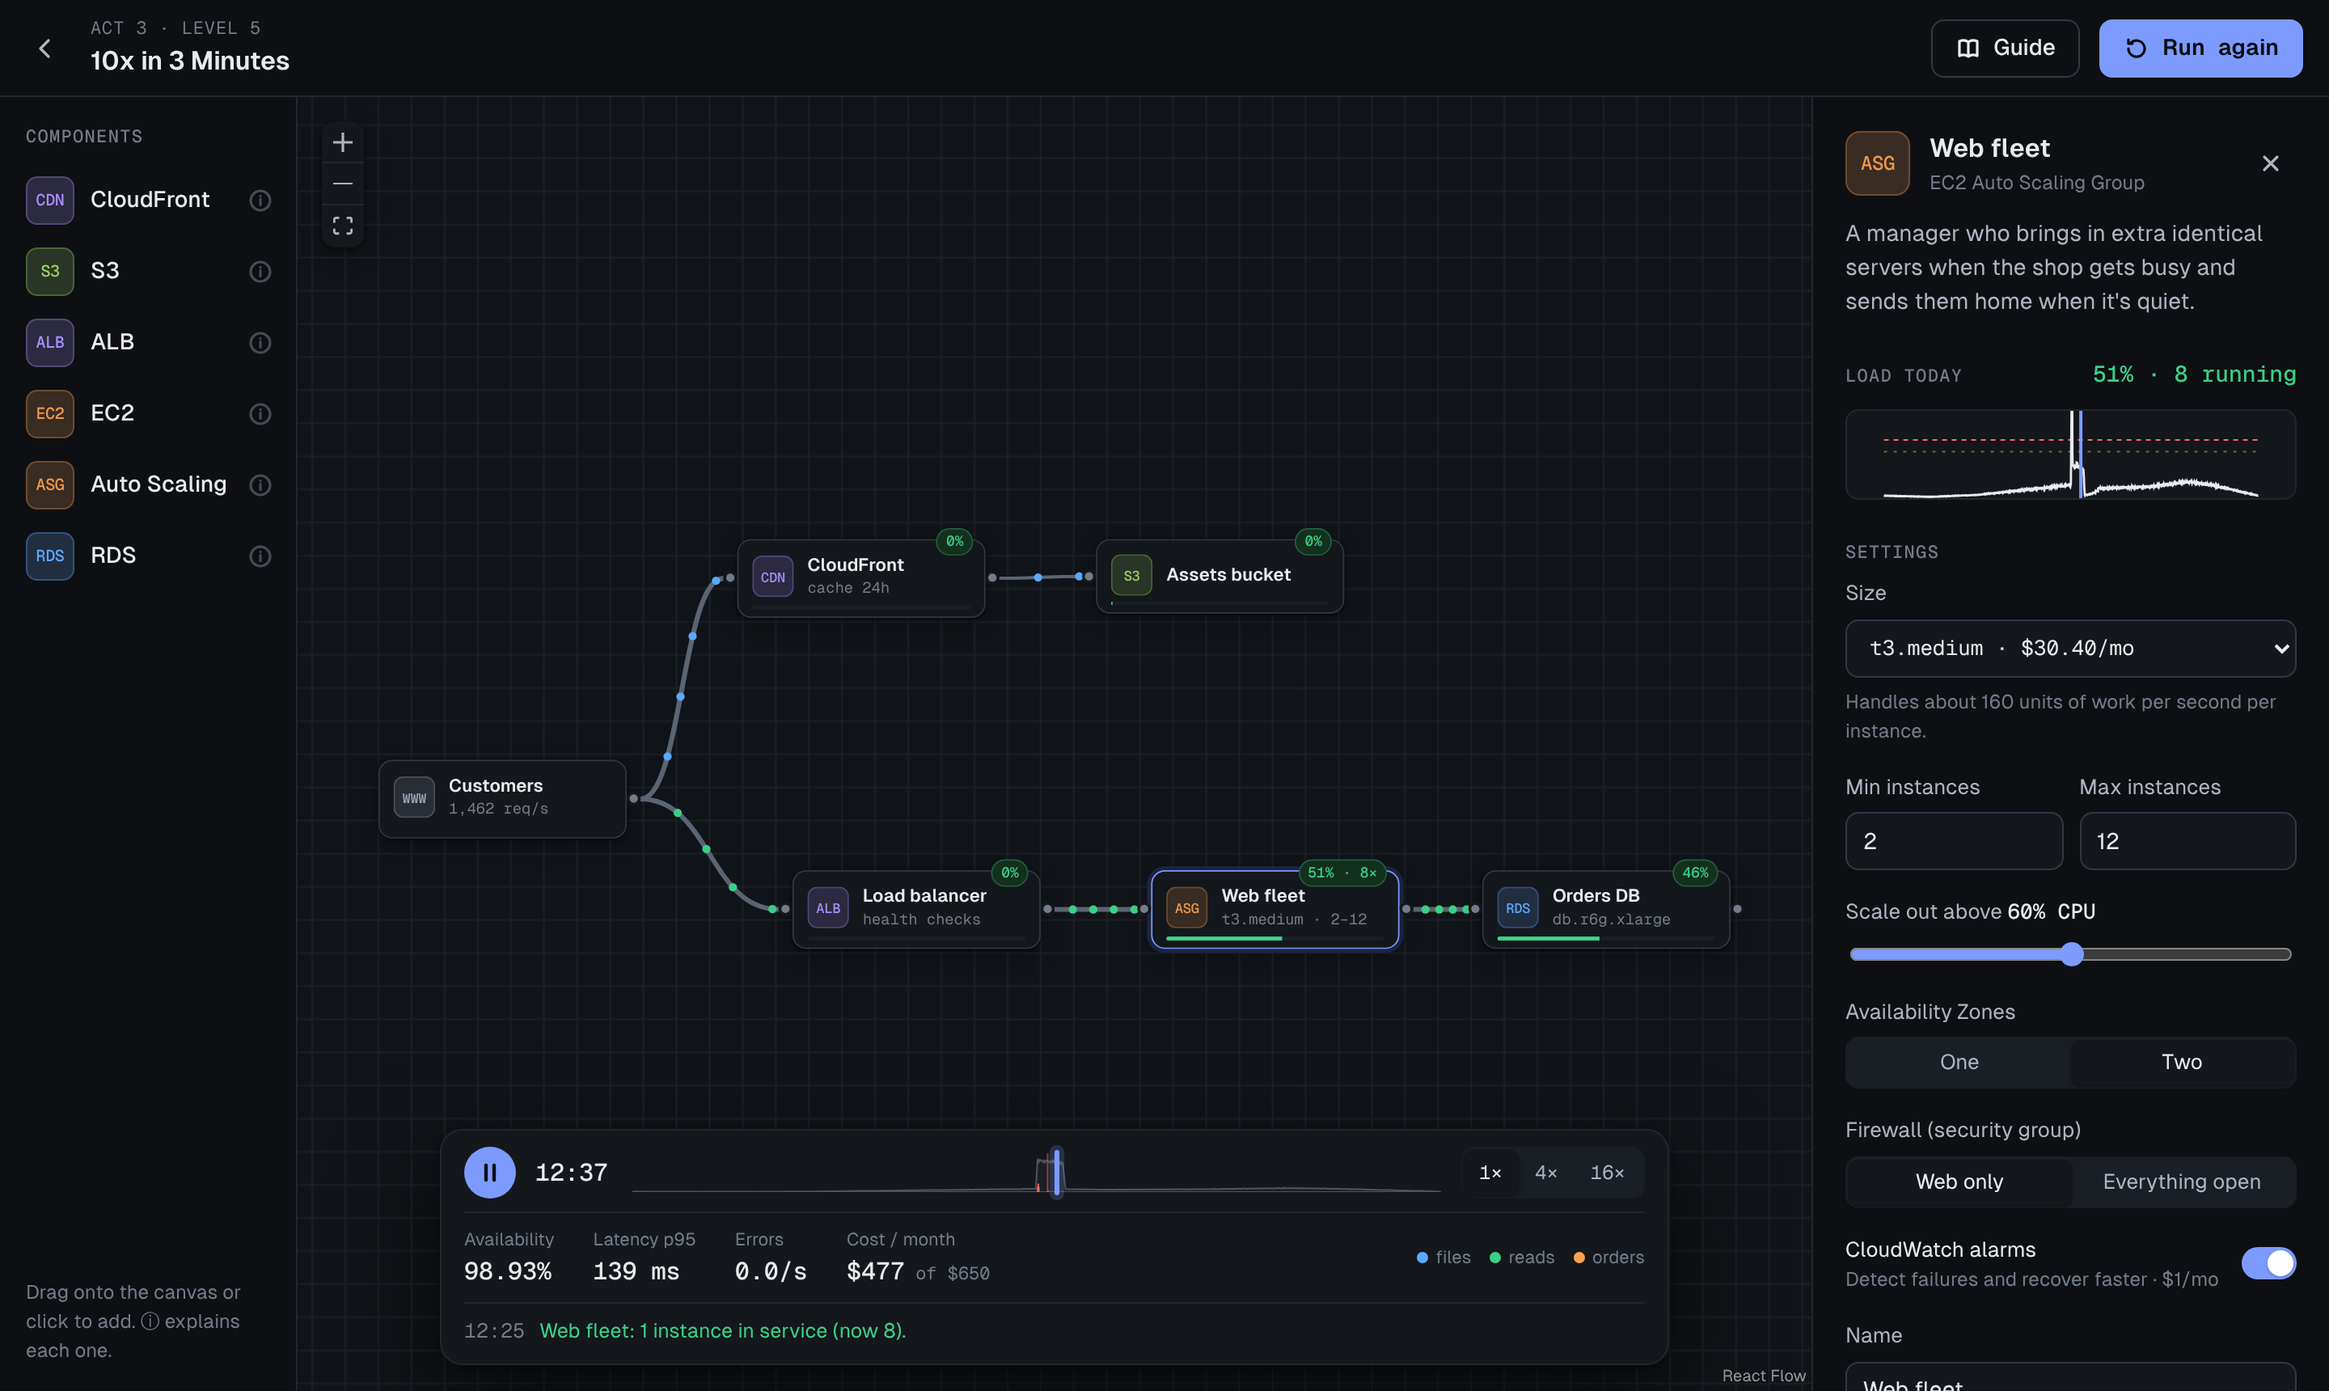
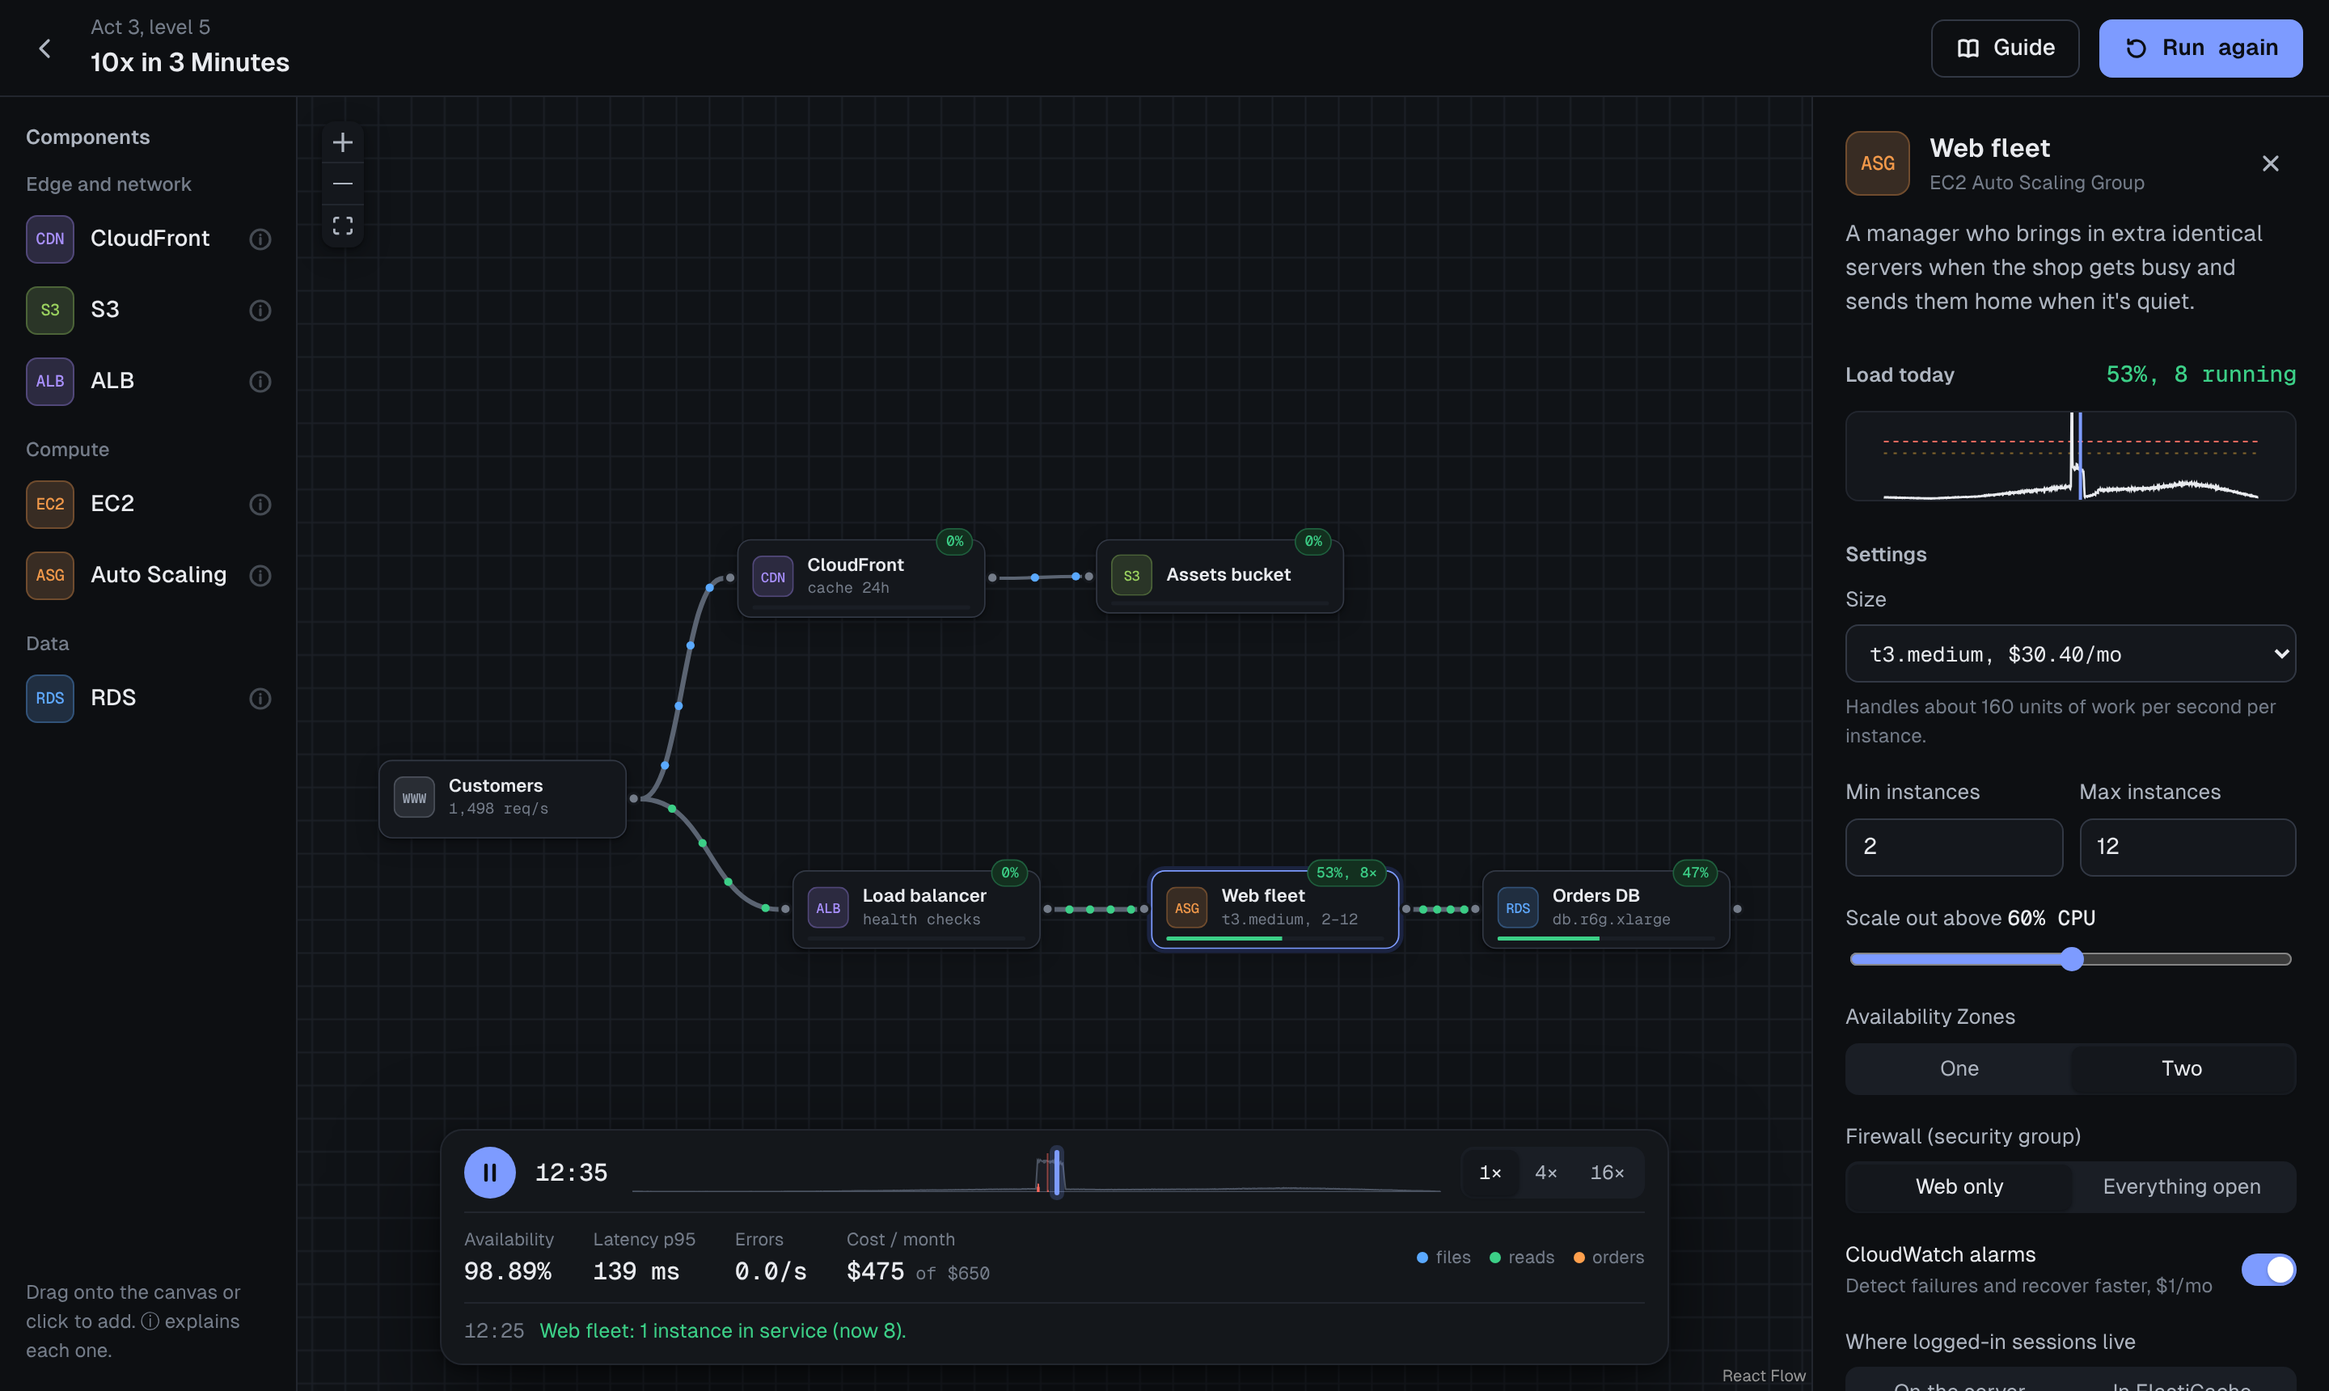
docs: describe Acts 4-7, the service guide and walkthroughs
Claude-Session: https://claude.ai/code/session_01Csq6iCoHs1hjybDH51s5cd

diff --git a/README.md b/README.md
@@ -25,28 +25,39 @@ ways:
 
 | Layer                         | What it demonstrates                                                                                                                                                                                                                                        |
 | ----------------------------- | ----------------------------------------------------------------------------------------------------------------------------------------------------------------------------------------------------------------------------------------------------------- |
-| **The game's content**        | System design knowledge: scaling, high availability, CDNs, right-sizing, data durability, security groups, health checks, alarms and cost trade-offs                                                                                                        |
-| **The game's code**           | A deterministic simulation engine with queueing, autoscaling and failure models; a graph editor; data-driven content validated by schemas; 98 automated tests                                                                                               |
+| **The game's content**        | System design knowledge: scaling, high availability, caching, replication, serverless, queues and events, disaster recovery, security and cost trade-offs                                                                                                   |
+| **The game's code**           | A deterministic simulation engine with queueing, autoscaling and failure models; a graph editor; data-driven content validated by schemas; 181 automated tests                                                                                              |
 | **The game's infrastructure** | Production-ready AWS infrastructure as code: serverless Terraform for dev and prod, GitHub Actions with OIDC (no long-lived keys), least-privilege IAM, alarms, dashboards and a budget alert. Validated in CI, not deployed: the live demo runs on Netlify |
 
 ## Play
 
-The Phase 1 prototype has the first three acts of the campaign (15 levels) and a sandbox.
+The campaign has seven acts (35 levels) that follow NimbusCart from ten users to two million, plus a sandbox.
 
-| Act                   | Story                                   | Levels                                                                                                                                     |
-| --------------------- | --------------------------------------- | ------------------------------------------------------------------------------------------------------------------------------------------ |
-| **1. Hello Cloud**    | The founder's weekend project, 10 users | One EC2 server · Elastic IP and security groups · Images in S3 · CloudFront with a private bucket · **Boss: launch day on $20**            |
-| **2. First Database** | First paying customers, 1k users        | Database on the server · Move to RDS (before a crash) · Right-sizing · Backups and private databases · **Boss: don't lose a single order** |
-| **3. Growing Pains**  | Featured on the app store, 50k users    | ALB and two servers · Auto Scaling on CPU · Two Availability Zones · Health checks and alarms · **Boss: 10x in 3 minutes**                 |
+| Act                        | Story                                       | Levels                                                                                                                                               |
+| -------------------------- | ------------------------------------------- | ---------------------------------------------------------------------------------------------------------------------------------------------------- |
+| **1. Hello Cloud**         | The founder's weekend project, 10 users     | One EC2 server; Elastic IP and security groups; images in S3; CloudFront with a private bucket; **boss: launch day on $20**                          |
+| **2. First Database**      | First paying customers, 1k users            | Database on the server; move to RDS before a crash; right-sizing; backups and private databases; **boss: don't lose a single order**                 |
+| **3. Growing Pains**       | Featured on the app store, 50k users        | ALB and two servers; Auto Scaling on CPU; two Availability Zones; health checks and alarms; **boss: 10x in 3 minutes**                               |
+| **4. Database Bottleneck** | Reads overwhelm the database, 200k users    | Read replicas; cache-aside with ElastiCache; TTL and stale data; replication lag; **boss: Black Friday with a cold cache**                           |
+| **5. Always On**           | A 99.9% SLA, 500k users                     | Multi-AZ failover; stateless servers and sessions; backups vs Multi-AZ; surviving a lost zone; **boss: a zone goes dark at peak**                    |
+| **6. Go Serverless**       | A mobile API, 1M users                      | API Gateway, Lambda and DynamoDB; Lambda memory and cold starts; partition keys; the RDS Proxy connection storm; **boss: the viral coupon**          |
+| **7. Decouple Everything** | Order processing keeps timing out, 2M users | Queue the payments with SQS; fan-out with SNS; poison messages and dead-letter queues; EventBridge retries; **boss: the payment provider goes down** |
 
-Services in Phase 1: **EC2, Auto Scaling Groups, ALB, CloudFront, S3, RDS, RDS read replicas, ElastiCache**
-(replicas and caching are available in the sandbox and unlock in the campaign in Act 4).
-Chaos events: **traffic spikes** and **instance crashes**.
+**17 services:** EC2, Auto Scaling, ALB, CloudFront, S3, RDS, read replicas, ElastiCache, API Gateway, Lambda,
+DynamoDB, RDS Proxy, SQS, SNS, EventBridge, plus your customers and a third-party payment provider.
 
-**No AWS experience needed.** A built-in service guide explains the basics (requests, load, latency,
-availability, Availability Zones, cost) and gives every component an everyday analogy, how it behaves in the
-game, and when to use it or avoid it. New components get a short introduction the first time a level unlocks
-them, and the first level opens with a three-step "how to play".
+**9 kinds of chaos:** traffic spikes, instance crashes, Availability Zone outages, database failures, payment
+provider outages, cache flushes, viral hot keys, a dropped table, and poison messages.
+
+**No AWS experience needed.**
+
+- **Service guide.** Searchable, available from every screen. Each service has an everyday analogy, a
+  beginner overview, how it behaves in the game, when to use and avoid it, words to know, a worked NimbusCart
+  example, common mistakes, what it pairs with, and its sizes and prices. 24 concept pages cover the ideas behind
+  them, from latency and availability to RPO and RTO, hot partitions and idempotency.
+- **Level intros.** The first time a level unlocks a service, a short card introduces it.
+- **Walkthroughs.** Every level has a step-by-step answer and an explanation of why it works. After two failed
+  runs the game offers it, and the answer can be loaded straight onto the canvas.
 
 ![Report card for the boss level: availability of 99.48% just misses the 99.5% target. The card shows pillar scores, a cost breakdown, the fleet as the bottleneck at 220% load, hints and a post-mortem timeline](docs/screenshots/report.png)
 
@@ -149,6 +160,7 @@ always gives the same result.
    (CloudFront for images, the load balancer for pages). CloudFront answers cache hits at the edge, based on its
    TTL. The ALB splits by healthy capacity. Servers send reads to a cache, replicas or the primary, and writes to
    the primary. A server with no database keeps one on its own disk, which costs CPU, and is lost if it crashes.
+   A request can make several calls in order: charge the card, save the order, publish an event.
 4. **Capacity and queueing.** Every request costs a node some work units. Latency is nearly flat below 80% load,
    then rises sharply (an M/M/c-style knee); above 100%, the excess is dropped.
 5. **Latency as distributions, not averages.** A backward pass combines each node's latency with its children's
@@ -157,15 +169,25 @@ always gives the same result.
 6. **Autoscaling and failure.** Auto Scaling Groups track a target utilisation, with a 3-minute warm-up and a
    scale-in cooldown. Crashes pick a running instance with the seeded RNG. Health checks decide whether the ALB
    keeps routing to a dead target; alarms decide how fast a lone server recovers.
-7. **Cost.** Hourly prices per component (per running instance for ASGs) plus per-request charges, projected to
-   a monthly figure live during the run.
-8. **Scoring.** Objectives (availability, p95, no data loss, budget, configuration checks) decide pass or fail.
-   A 0-100 score weights the six Well-Architected pillars per level and turns into 1-3 stars. The report card adds
-   bottlenecks, hints and a post-mortem timeline.
+7. **Queues and events.** SQS, SNS and EventBridge end the customer's request as soon as a message is accepted.
+   Queues keep a backlog that consumers drain at their own capacity, with retries, poison messages and
+   dead-letter queues. SNS drops messages for a subscriber that can't keep up; EventBridge retries them.
+8. **Serverless and data limits.** Lambda has a concurrency limit and cold starts, and every running execution
+   opens a database connection. Relational databases refuse connections above their limit unless RDS Proxy pools
+   them. DynamoDB throttles a partition key that gets too much traffic.
+9. **Disasters.** Availability Zone outages, Multi-AZ failover, point-in-time restore after a dropped table, lost
+   sessions on servers that disappear, and how stale cached and replicated data can get.
+10. **Cost.** Hourly prices per component (per running instance for ASGs) plus per-request charges, projected to
+    a monthly figure live during the run.
+11. **Scoring.** Objectives (availability, p95, no data loss, budget, configuration checks) decide pass or fail.
+    A 0-100 score weights the six Well-Architected pillars per level and turns into 1-3 stars. The report card adds
+    bottlenecks, hints and a post-mortem timeline.
 
 **Every level is proven solvable in CI.** The engine test suite runs each level's reference solution and requires
 all objectives and 3 stars, across several random seeds. It also checks that each starting design fails, and that
-key lessons hold, for example that a bigger server instead of CloudFront blows the $20 budget in the Act 1 boss.
+key lessons hold: a bigger server instead of CloudFront blows the $20 budget in the Act 1 boss, Lambda without
+RDS Proxy runs the database out of connections, and charging cards inside the customer's request fails during
+the payment outage.
 
 Game balance in numbers: in-game prices and capacities are tuned for gameplay and are approximate, not copied
 from AWS pricing. The game never touches a real AWS account.
@@ -185,7 +207,7 @@ pnpm dev
 Open http://localhost:5173. Other useful commands:
 
 ```bash
-pnpm test        # 98 tests: engine, level solvability, content schemas, API, web
+pnpm test        # 181 tests: engine mechanics, level solvability, content, API, web
 pnpm check       # lint + typecheck + test + build, exactly what CI runs
 ```
 
@@ -222,13 +244,13 @@ repository variables are set. CI still checks every Terraform module with `fmt` 
 
 ## Roadmap
 
-| Phase | Name                     | Scope                                                                                                                                                                                     | Status  |
-| ----- | ------------------------ | ----------------------------------------------------------------------------------------------------------------------------------------------------------------------------------------- | ------- |
-| 1     | **Prototype**            | Simulation engine, canvas, 8 services, traffic spike and instance crash, report card, Acts 1-3 (15 levels), sandbox                                                                       | ✅ Done |
-| 2     | **Core game**            | Acts 4-7: read replicas and caching, Multi-AZ RDS, serverless (Lambda, API Gateway, DynamoDB, RDS Proxy), SQS/SNS/Step Functions; more incidents (AZ outage, failover, connection storms) | Next    |
-| 3     | **Data Architect mode**  | Second campaign: schema designer, Query Lab with execution plans, transactions, DynamoDB key design board, polyglot persistence                                                           | Planned |
-| 4     | **Cloud backend launch** | Sign-in with Cognito, cloud saves, shared design links, server-verified leaderboards, daily challenges (API and Terraform built and tested, not deployed)                                 | Built   |
-| 5     | **Expansion**            | Acts 8-15 (security, analytics, CI/CD, multi-region, AI, the IPO), **Export to Terraform**, Incident Response and Cost Crusher modes                                                      | Planned |
+| Phase | Name                     | Scope                                                                                                                                                                           | Status  |
+| ----- | ------------------------ | ------------------------------------------------------------------------------------------------------------------------------------------------------------------------------- | ------- |
+| 1     | **Prototype**            | Simulation engine, canvas, 8 services, traffic spike and instance crash, report card, Acts 1-3 (15 levels), sandbox                                                             | ✅ Done |
+| 2     | **Core game**            | Acts 4-7: replicas and caching, Multi-AZ, serverless (Lambda, API Gateway, DynamoDB, RDS Proxy), SQS, SNS and EventBridge; 7 new incident types; service guide and walkthroughs | ✅ Done |
+| 3     | **Data Architect mode**  | Second campaign: schema designer, Query Lab with execution plans, transactions, DynamoDB key design board, polyglot persistence                                                 | Next    |
+| 4     | **Cloud backend launch** | Sign-in with Cognito, cloud saves, shared design links, server-verified leaderboards, daily challenges (API and Terraform built and tested, not deployed)                       | Built   |
+| 5     | **Expansion**            | Acts 8-15 (security, analytics, CI/CD, multi-region, AI, the IPO), **Export to Terraform**, Incident Response and Cost Crusher modes                                            | Planned |
 
 The full vision is in the [game design document](docs/GAME_DESIGN.md).
 
